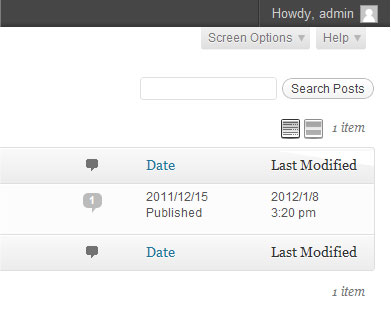
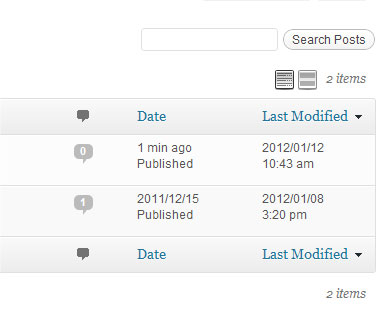
* Fixed sortable column on pages table.
git-svn-id: https://plugins.svn.wordpress.org/last-modified-timestamp/tags/0.3.1@488887 b8457f37-d9ea-0310-8a92-e5e31aec5664

diff --git a/last-modified-timestamp.php b/last-modified-timestamp.php
@@ -2,7 +2,7 @@
 /*
 Plugin Name: Last Modified Timestamp
 Description: This plugin will add information to the admin interface about when each post/page was last modified. No options currently available, simply activate and enjoy!
-Version: trunk
+Version: 0.3.1
 Author: Evan Mattson
 */
 
@@ -23,70 +23,81 @@ Author: Evan Mattson
     Foundation, Inc., 59 Temple Place, Suite 330, Boston, MA  02111-1307  USA
 */
 
-
-$the_date_format = 'M j, Y'; 
-$user_time_format = get_option('time_format'); // use user's preferred time formatting
-
-// redefines the admin messages at the top of the page on post.php for pages & posts.
-function modify_messages($messages) {
-global $post, $the_date_format, $user_time_format;
-
-$modified_timestamp = date_i18n( __( $the_date_format . ' @ ' . $user_time_format ), strtotime( $post->post_modified ) );
-
-
-$messages['post'] = array(
-	 1 => sprintf( __('Post updated. <strong>%2$s</strong>. <a href="%1$s">View post</a>'), esc_url( get_permalink($post_ID) ), $modified_timestamp ),
-	 4 => sprintf( __('Post updated. <strong>%2$s</strong>. <a href="%1$s">View post</a>'), esc_url( get_permalink($post_ID) ), $modified_timestamp ),
-	);
-$messages['page'] = array(
-	 1 => sprintf( __('Page updated. <strong>%2$s</strong>. <a href="%1$s">View post</a>'), esc_url( get_permalink($post_ID) ), $modified_timestamp ),
-	 4 => sprintf( __('Page updated. <strong>%2$s</strong>. <a href="%1$s">View post</a>'), esc_url( get_permalink($post_ID) ), $modified_timestamp ),
-	);
-return $messages;
-}
-
-// now let's add the last modified timestamp to the post meta box in post.php!
-function add_modified_to_meta() {
-	global $post, $the_date_format, $user_time_format;
-
-	$modified_timestamp = sprintf( __('Last modified on: <strong>%1$s</strong>'), date_i18n( __( $the_date_format . ' @ ' . $user_time_format ), strtotime( $post->post_modified ) ) );
-	  
-	echo '<div class="misc-pub-section misc-pub-section-last">' . $modified_timestamp . '</div>';
-}
-
-// Now for the post/pages table column
-
-// Append the new column to the columns array
-function last_modified_column_heading($columns) {
-  $columns['last-modified'] = 'Last Modified';
-  return $columns;
-}
-// Put the last modified date in the content area
-function last_modified_column_content($column_name, $id) {
-global $post, $user_time_format;
-	if ($column_name == 'last-modified')
-	echo ( date_i18n( __( 'Y/n/j\<\b\r\ \/\>' . $user_time_format ), strtotime( $post->post_modified ) ) ) ;
-}
-
-// Output CSS for width of new column
-function last_modified_css() {
-?>
-<style type="text/css">
-  #last-modified { width: 110px; }
-</style>
-<?php  
-}
-
 function last_modified_add() {
-	add_action('admin_head', 'last_modified_css');
+	add_action( 'admin_head', 'print_last_modified_css' );
 	
 	add_filter( 'post_updated_messages','modify_messages' );
 	add_action( 'post_submitbox_misc_actions', 'add_modified_to_meta' );
 
-	add_filter('manage_page_posts_columns','last_modified_column_heading');
-	add_filter('manage_post_posts_columns','last_modified_column_heading');
-	add_action('manage_pages_custom_column','last_modified_column_content', 10, 2);
-	add_action('manage_posts_custom_column','last_modified_column_content', 10, 2);
+	add_filter( 'manage_page_posts_columns','last_modified_column_heading' );
+	add_filter( 'manage_post_posts_columns','last_modified_column_heading' );
+	add_action( 'manage_pages_custom_column','last_modified_column_content', 10, 2 );
+	add_action( 'manage_posts_custom_column','last_modified_column_content', 10, 2 );
+	
+	add_filter( 'manage_edit-post_sortable_columns', 'last_modified_column_register_sortable' );
+	add_filter( 'manage_edit-page_sortable_columns', 'last_modified_column_register_sortable' );
 }
-add_action('admin_init', 'last_modified_add');
+add_action( 'admin_init', 'last_modified_add' );
+
+// returns a formatted timestamp as a string
+function construct_timestamp($mode='') { 
+// instead of IF to better handle other possible modes in future
+	switch ($mode) { 
+		case 'wp-table' :
+			$modified_timestamp = get_the_modified_date('Y/m/d') . '<br />' . get_the_modified_time();  // wp-tables
+			break;
+		default :
+			$modified_timestamp = get_the_modified_date('M j, Y') . ' @ ' . get_the_modified_time(); //  post messages & meta box
+	}
+return $modified_timestamp;
+}
+
+// filters the admin messages at the top of the page on post.php for pages & posts to include the last modified timestamp.
+function modify_messages($messages) {
+	$modified_timestamp = construct_timestamp();
+	$messages['post'] = array(
+		 1 => sprintf( __('Post updated. <strong>%2$s</strong>. <a href="%1$s">View post</a>'), esc_url( get_permalink($post_ID) ), $modified_timestamp ),
+		 4 => sprintf( __('Post updated. <strong>%2$s</strong>. <a href="%1$s">View post</a>'), esc_url( get_permalink($post_ID) ), $modified_timestamp ),
+		);
+	$messages['page'] = array(
+		 1 => sprintf( __('Page updated. <strong>%2$s</strong>. <a href="%1$s">View page</a>'), esc_url( get_permalink($post_ID) ), $modified_timestamp ),
+		 4 => sprintf( __('Page updated. <strong>%2$s</strong>. <a href="%1$s">View page</a>'), esc_url( get_permalink($post_ID) ), $modified_timestamp ),
+		);
+	return $messages;
+}
+
+// Add the Last Modified timestamp to the 'Publish' meta box in post.php
+function add_modified_to_meta() {
+	$modified_timestamp = sprintf( __('Last modified on: <strong>%1$s</strong>'), construct_timestamp() );
+	echo '<div class="misc-pub-section misc-pub-section-last">' . $modified_timestamp . '</div>';
+}
+
+// The next 2 functions add the column in admin post/page tables :
+
+// Append the new column to the columns array
+function last_modified_column_heading($columns) {
+	$columns['last-modified'] = 'Last Modified';
+	return $columns;
+}
+// Put the last modified date in the content area
+function last_modified_column_content($column_name, $id) {
+	if ($column_name == 'last-modified')
+		echo construct_timestamp('wp-table');
+}
+
+// Register the column as sortable
+function last_modified_column_register_sortable( $columns ) {
+	$columns['last-modified'] = 'modified';
+ 	return $columns;
+}
+
+
+// Output CSS for width of new column 
+function print_last_modified_css() {
+?>
+<style type="text/css">
+	#last-modified { width: 120px; }
+</style>
+<?php  
+}
 ?>
